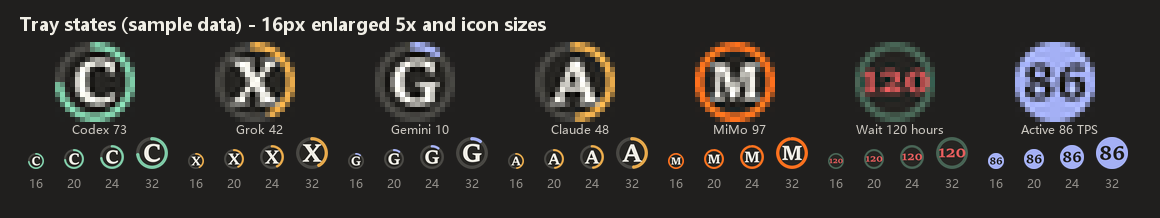
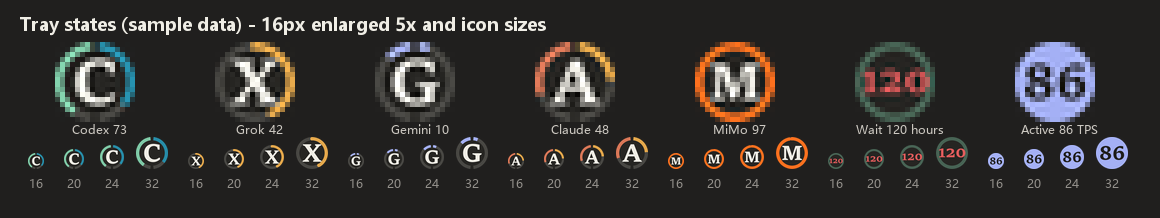
Restore familiar tray style with dual quota arcs

diff --git a/icon_art.py b/icon_art.py
@@ -261,9 +261,37 @@ def live_icon(tps: float, letter: str, reset_hint: bool = False) -> Image.Image:
 @lru_cache(maxsize=128)
 def ring_icon(values: tuple, letter: str, stale: bool = False, marker: float | None = None,
               reset_hint: bool = False, colors: tuple | None = None) -> Image.Image:
-    """Restore the established single-ring style using the tightest known window."""
-    known = [value for value in values if value is not None]
-    return quota_icon(min(known) if known else None, letter, stale, marker, reset_hint)
+    """Keep the original disc and glyph; draw two windows in the outer ring.
+
+    The left and right halves both fill from the top towards the bottom.  A
+    short gap at each pole separates the two windows even at tray size.
+    """
+    values = values[:2] or (None,)
+    if len(values) == 1:
+        return quota_icon(values[0], letter, stale, marker, reset_hint)
+    canvas = Image.new("RGBA", (CANVAS, CANVAS), (0, 0, 0, 0))
+    draw = ImageDraw.Draw(canvas)
+    draw.ellipse(DISC, fill=INK)
+    outer = (0, 0, CANVAS - 1, CANVAS - 1)
+    shades = colors or WINDOW_SHADES.get(letter, (accent(letter), accent(letter)))
+    for index, value in enumerate(values):
+        # PIL angles increase clockwise.  The left half is drawn backwards.
+        lo, hi = ((96, 264) if index == 0 else (-84, 84))
+        draw.arc(outer, lo, hi, fill=TRACK, width=RING_W)
+        if value is None or value <= 0:
+            continue
+        sweep = 168 * min(100.0, float(value)) / 100
+        color = shades[index] if colors or value >= 50 or letter in UNIFORM_LETTERS else ring_color(value, letter)
+        start, end = (hi - sweep, hi) if index == 0 else (lo, lo + sweep)
+        draw.arc(outer, start, end, fill=color, width=RING_W)
+    label, fill = (letter, IVORY) if any(value is not None for value in values) else ("?", MUTED)
+    face = _fit(label, letter_font, 176, 168, 212, draw)
+    _centered_text(draw, label, face, (0, 0, CANVAS, CANVAS), fill)
+    if stale:
+        _stale_badge(canvas)
+    if reset_hint:
+        _reset_badge(canvas)
+    return _finish(canvas)
 
 
 @lru_cache(maxsize=64)

diff --git a/test_split_ring.py b/test_split_ring.py
@@ -57,9 +57,12 @@ class SplitRingTests(unittest.TestCase):
         pools[1]['remaining_percent'] = 20
         self.assertIsNone(tray_app.usable_again_at(value,now))
 
-    def test_restored_single_ring_uses_tightest_window_and_encodes_ico(self):
+    def test_two_windows_draw_independent_halves_and_encode_ico(self):
         image = icon_art.ring_icon((83,73),'C')
-        self.assertEqual(image.tobytes(),icon_art.quota_icon(73,'C').tobytes())
+        self.assertNotEqual(image.tobytes(), icon_art.ring_icon((0,73),'C').tobytes())
+        self.assertNotEqual(image.tobytes(), icon_art.ring_icon((83,0),'C').tobytes())
+        self.assertEqual(icon_art.ring_icon((73,),'C').tobytes(), icon_art.quota_icon(73,'C').tobytes())
+        self.assertEqual(image.crop((25,20,39,44)).tobytes(), icon_art.quota_icon(73,'C').crop((25,20,39,44)).tobytes())
         encoded = io.BytesIO()
         image.save(encoded,format='ICO',sizes=[(16,16),(32,32),(64,64)])
         encoded.seek(0)

diff --git a/README.md b/README.md
@@ -9,7 +9,7 @@ A Windows system-tray monitor for local AI quota and token-usage signals, with g
 ## 功能概览
 
 - **独立来源图标**：默认显示 Codex、Grok、Gemini，Claude Code 为可选来源。
-- **额度圆环**：沿用深色圆盘、来源字母和完整圆环。多个额度窗口使用剩余最少的窗口绘制圆环，悬停面板分别显示各窗口；Gemini 多池同样取剩余最少的池。
+- **额度圆环**：沿用深色圆盘和来源字母。有两个窗口时外圈分为左右两段，左侧为短窗口、右侧为长窗口；Gemini 显示剩余最少的两个模型池，按面板顺序排列。单窗口仍为完整圆环；生成时显示 TPS 数字。
 - **生成速率显示**：取得可核验样本且来源处于活动状态时，圆盘点亮并显示最近样本；缺少样本时继续显示额度。
 - **Agent 任务气泡**：悬停任一额度图标都会打开任务面板（没有任务时也显示）：顶部保留各额度窗口与 TPS，每列标题直接写距下次重置的时间（如 4小时32分钟、3天7小时、323天；尚未开始计时的窗口仍写窗口名），下方每个气泡是一项任务及其当前动作；把气泡拖到一起即告诉程序它们是同一任务的并行部分，合并为大气泡并重新识别。
 - **按需刷新**：根据空闲、活动、生成结束、读取失败和重置时间调度额度查询。
@@ -33,7 +33,7 @@ A Windows system-tray monitor for local AI quota and token-usage signals, with g
 | --- | --- | --- | --- | --- |
 | C | GPT / Codex | 本机 Codex App Server 的 `account/rateLimits/read` | 本地会话的真实输出 token 计数，以及关联的客户端流式时间 | 按账号响应展示一个或两个额度窗口；统计依赖本地日志格式 |
 | X | Grok CLI | 临时 CLI 会话执行 `/usage`，解析 `Weekly limit` 与重置时间 | 直接读取客户端原生 `tokens_per_sec` 和输出计数 | 需要对应 CLI 已安装、已登录；终端输出格式变化会影响解析 |
-| G | Gemini / Antigravity | `agy --print /usage --output-format json`，读取全部额度池（Argon、Claude/GPT、Gemini），圆环显示剩余最少的池 | 读取 Antigravity 桌面端或 CLI 本地记录中的输出计数，按模型回复步骤的创建至完成时间计算 TPS（含首字延迟） | 客户端不提供原生 TPS；`agy` 不能直接替换成任意名为 Gemini 的 CLI |
+| G | Gemini / Antigravity | `agy --print /usage --output-format json`，读取全部额度池（Argon、Claude/GPT、Gemini），外圈显示剩余最少的两个池 | 读取 Antigravity 桌面端或 CLI 本地记录中的输出计数，按模型回复步骤的创建至完成时间计算 TPS（含首字延迟） | 客户端不提供原生 TPS；`agy` 不能直接替换成任意名为 Gemini 的 CLI |
 | A | Claude Code | 原生 status line 同步 5 小时与每周额度 | 本地 `api-request` 与 `requestRef` 关联真实输出计数，计算每次 API 请求的端到端 TPS | Pro/Max 账号；未记录请求开始时间的旧会话只统计输出计数 |
 | M | Xiaomi MiMo Token Plan，可选 | 控制台 `/api/v1/tokenPlan/usage`、`/detail`（需登录一次）；或手动 `mimo.json` | 读取 Codex / Claude Code / MiMo Code 本地记录中 `mimo-*` 模型的输入、缓存与输出 token，按价格表换算 Credits | 控制台接口非公开，返回格式依据前端推断，尚缺真实账号验收 |
 
@@ -225,7 +225,7 @@ Gemini TPS = 输出 token 数 / 回复步骤创建至完成的时间（含首字
 
 数据库被 Antigravity 锁定时读取其临时副本。
 
-Antigravity 有多个独立额度池。程序把 `/usage` 中的桶按模型家族归类（名称含 argon → Argon；claude / gpt → Claude/GPT；gemini → Gemini），每个池取剩余最少的窗口。G 图标圆环显示剩余最少的池；任务面板顶部并列显示各池剩余：与其他来源一样，列标题是距重置的时间，模型池名称写在额度条下方，正在使用的池会高亮。
+Antigravity 有多个独立额度池。程序把 `/usage` 中的桶按模型家族归类（名称含 argon → Argon；claude / gpt → Claude/GPT；gemini → Gemini），每个池取剩余最少的窗口。G 图标外圈显示剩余最少的两个池，左右顺序与面板一致；任务面板顶部并列显示各池剩余：与其他来源一样，列标题是距重置的时间，模型池名称写在额度条下方，正在使用的池会高亮。
 
 切换账号后，在设置中点“立即刷新”或等待下一次定期读取。额度池完整替换为新返回的数据：无 Argon 时不保留该项，改由实际存在的 Opus／Gemini 参与倒计时；池或周期变化时重新积累 Gemini 消耗预测。Gemini 读取失败时显示未知，避免把旧账号额度误当成新账号。
 
